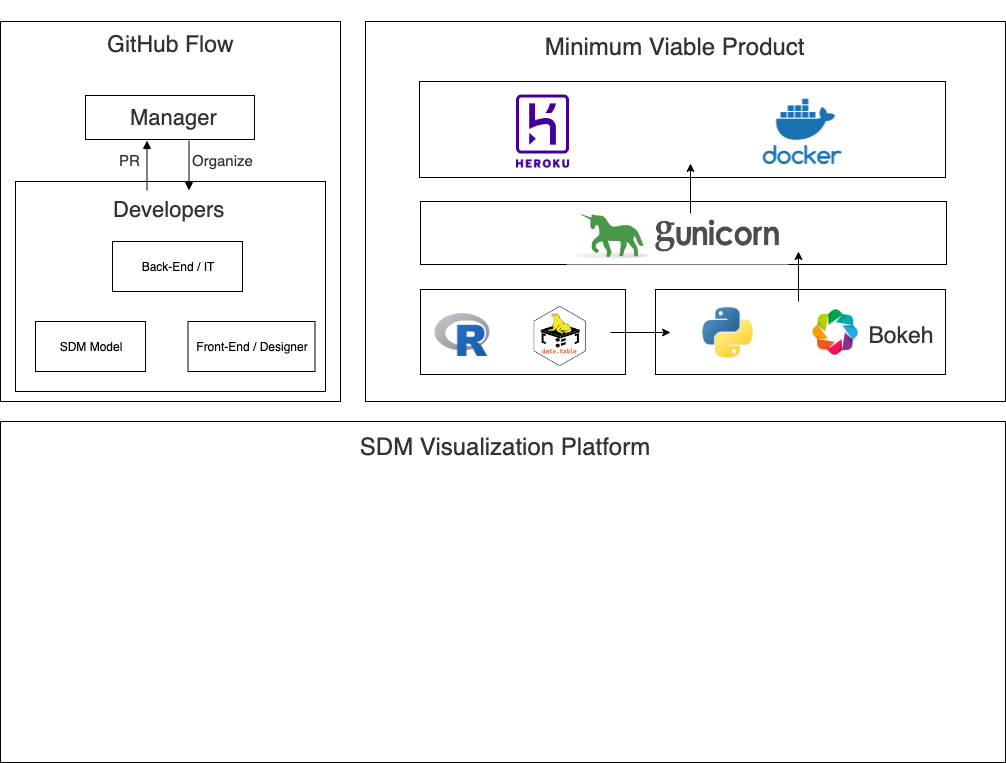
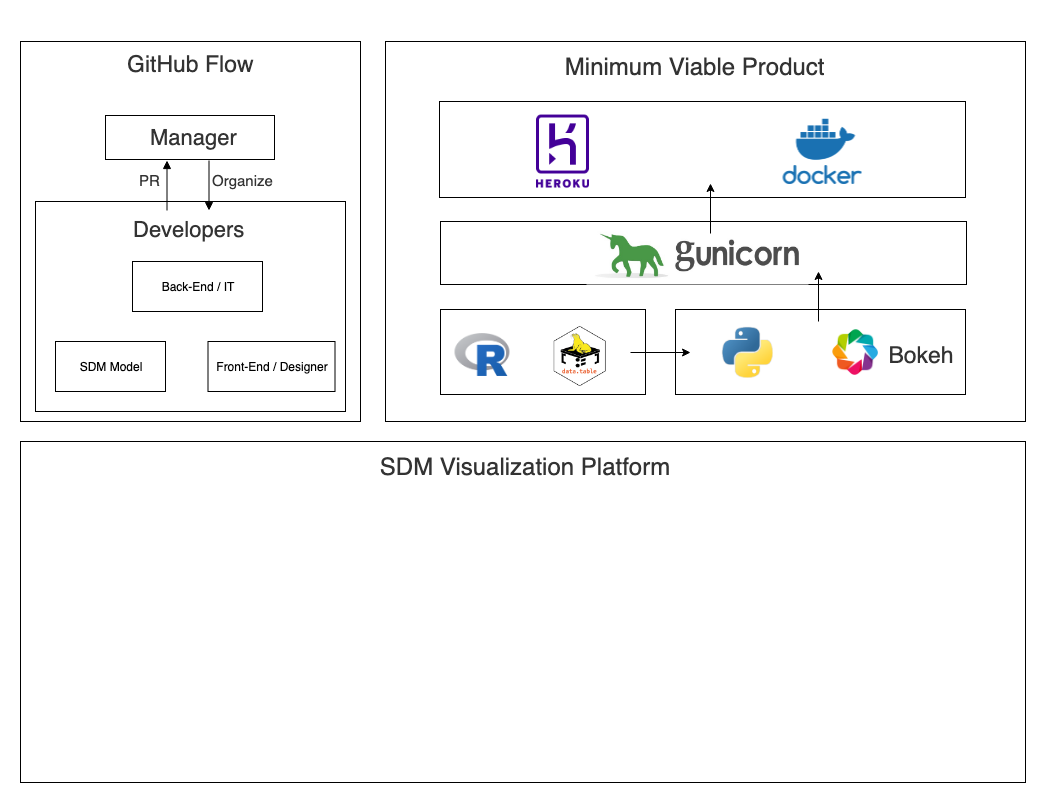
[FEATURE] #comment increase borderwidth

diff --git a/README.md b/README.md
@@ -9,4 +9,4 @@ This repository works as the master branch for building a visualization platform
 
 - [Bokeh](https://bokeh.pydata.org/en/latest/)
 
-![](https://i.imgur.com/WsNQid0.png)
+![](https://i.imgur.com/soExtEE.png)
